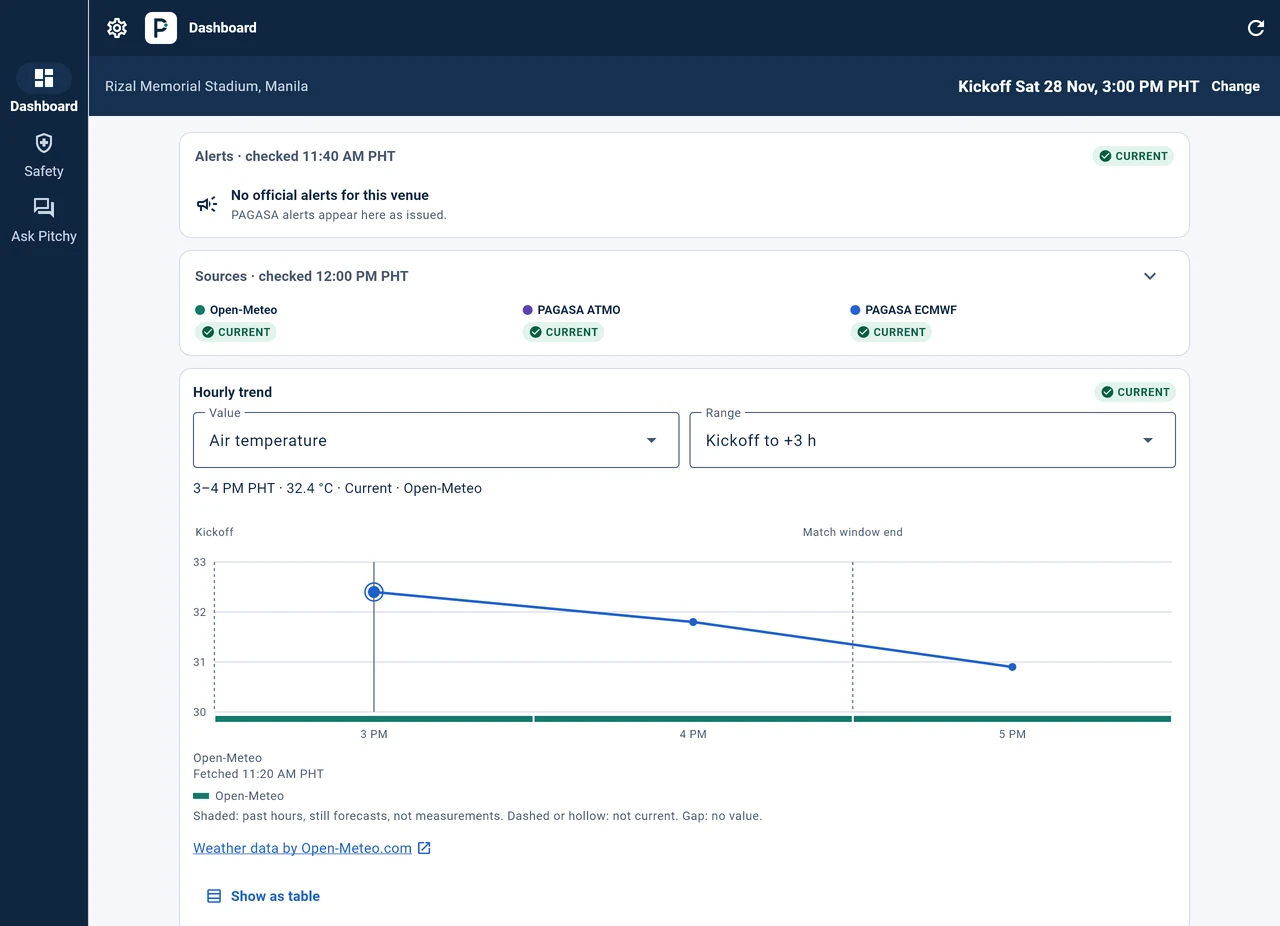
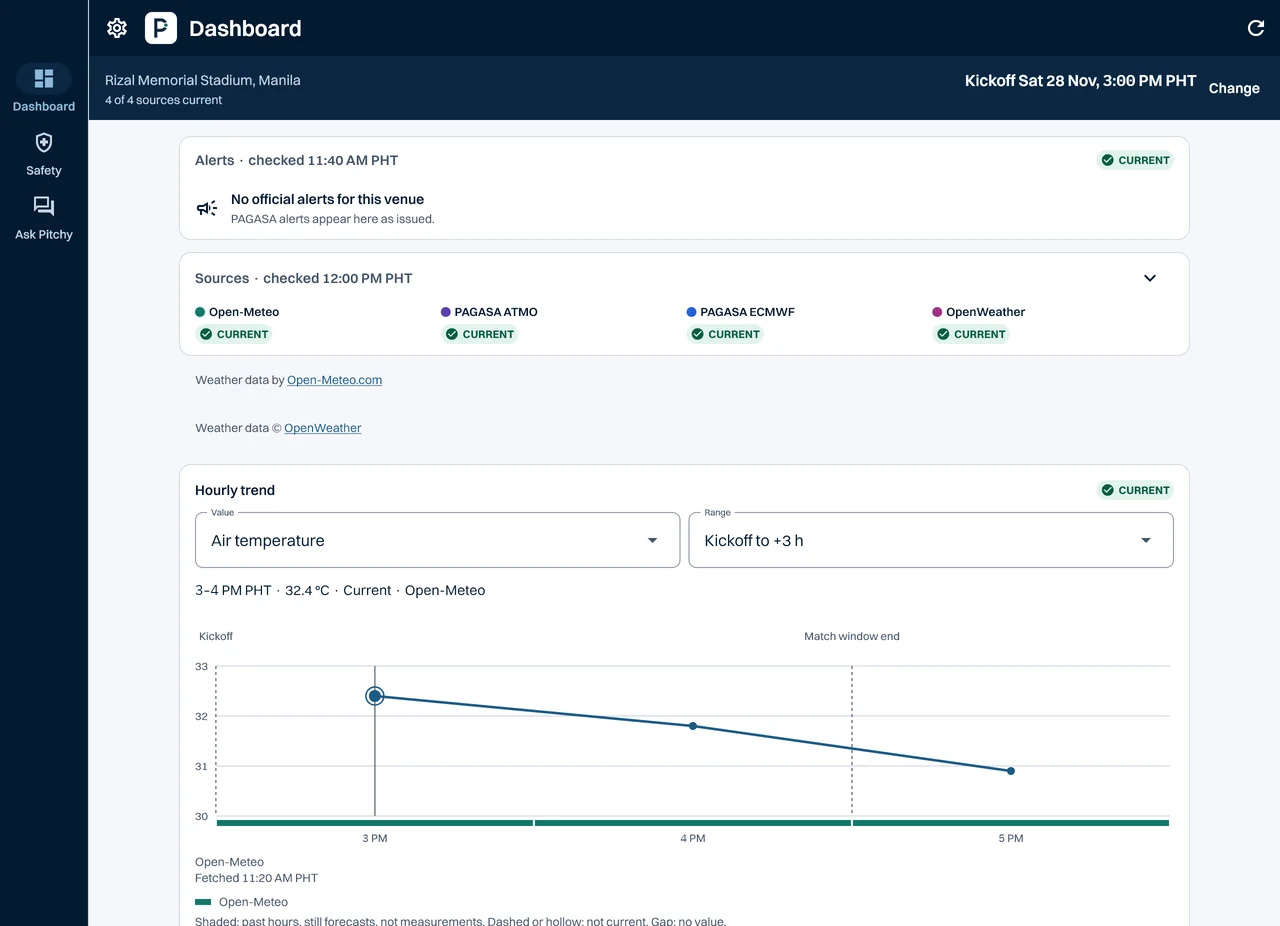
Landing page: redesigned app screenshots, OpenWeather as a source
New captures from the P-28 redesign (sample data) for the story, Windows
and trust sections. OpenWeather added to the hero, meta description,
source list (plum mark) and the FAQ credit with its link.

diff --git a/landing_page/index.html b/landing_page/index.html
@@ -6,7 +6,7 @@
     <title>Pitchy: Your Football Safety &amp; Weather Guide</title>
     <meta
       name="description"
-      content="Pitchy puts match-day weather from PAGASA and Open-Meteo, the guidance the approved safety rules give, and plain-language answers into one app for Android and Windows. Free download."
+      content="Pitchy puts match-day weather from PAGASA, Open-Meteo and OpenWeather, the guidance the approved safety rules give, and plain-language answers into one app for Android and Windows. Free download."
     />
     <meta name="theme-color" content="#031A31" />
     <meta property="og:title" content="Pitchy: Your Football Safety &amp; Weather Guide" />
@@ -55,7 +55,7 @@
               <span class="hero-tag">Your football safety &amp; weather guide</span>
             </h1>
             <p class="hero-lede">
-              Weather for your venue and kickoff from PAGASA and Open-Meteo, what the approved safety rules say, and
+              Weather for your venue and kickoff from PAGASA, Open-Meteo and OpenWeather, what the approved safety rules say, and
               Ask Pitchy to explain it in plain words. Every value shows its source and how old it is.
             </p>
             <div class="hero-actions">
@@ -119,6 +119,7 @@
                 <ul class="source-list" aria-label="Weather sources">
                   <li><span class="src-dot src-open-meteo" aria-hidden="true"></span>Open-Meteo</li>
                   <li><span class="src-dot src-pagasa" aria-hidden="true"></span>PAGASA</li>
+                  <li><span class="src-dot src-openweather" aria-hidden="true"></span>OpenWeather</li>
                   <li><span class="src-dot src-dost" aria-hidden="true"></span>DOST-ASTI <span class="muted">(planned)</span></li>
                 </ul>
                 <figure class="story-shot">
@@ -278,7 +279,7 @@
             </details>
             <details data-line>
               <summary>Where does the weather come from?</summary>
-              <p>From PAGASA and Open-Meteo, with DOST-ASTI planned. In the app, every value shows its source. <a href="https://open-meteo.com/" rel="noopener" target="_blank">Weather data by Open-Meteo.com</a>.</p>
+              <p>From PAGASA, Open-Meteo and OpenWeather, with DOST-ASTI planned. In the app, every value shows its source. <a href="https://open-meteo.com/" rel="noopener" target="_blank">Weather data by Open-Meteo.com</a>. <a href="https://openweathermap.org/" rel="noopener" target="_blank">Weather data © OpenWeather</a>.</p>
             </details>
             <details data-line>
               <summary>Does Pitchy decide whether a match goes ahead?</summary>

diff --git a/landing_page/src/styles/main.css b/landing_page/src/styles/main.css
@@ -621,6 +621,9 @@ figcaption,
 .src-pagasa {
   background: var(--src-pagasa);
 }
+.src-openweather {
+  background: var(--src-openweather);
+}
 .src-dost {
   background: transparent;
   border: 2px solid var(--src-dost);

diff --git a/landing_page/src/styles/tokens.css b/landing_page/src/styles/tokens.css
@@ -63,6 +63,7 @@
   /* weather source lines (from the app) */
   --src-open-meteo: #52c7b4;
   --src-pagasa: #b39cf5;
+  --src-openweather: #ee8fd9;
   --src-dost: #9aa8b8;
 
   /* platform marks */

diff --git a/landing_page/DESIGN.md b/landing_page/DESIGN.md
@@ -24,6 +24,7 @@ colors:
   tint: "#e6ecf4"
   src-open-meteo: "#52c7b4"
   src-pagasa: "#b39cf5"
+  src-openweather: "#ee8fd9"
   src-dost: "#9aa8b8"
   android: "#157a4a"
   android-tint: "#e3f2ea"
@@ -159,7 +160,7 @@ A night-stadium palette with one lit accent and a paper counter-world.
 - **On Dark** (`#f2f5f9`) and **On Dark Muted** (`#b4c2d3`): text on night.
 - **Mown Pitch** (`#0e3b2e`) / **Pitch Stripe** (`#114634`): tokens kept for the canvas grass family only; the Windows band now uses Night 2 / Match Navy stripes (90deg, `repeating-linear-gradient`) with 18% glacier hairlines.
 - **Programme Paper** (`#f5f7fa`), **White Panel** (`#ffffff`), **Hairline** (`#d3dae3`), **Tint** (`#e6ecf4`), **Ink Muted** (`#45556b`): the install, sheet and FAQ world.
-- **Source marks:** Open-Meteo teal (`#52c7b4`), PAGASA violet (`#b39cf5`), DOST-ASTI grey (`#9aa8b8`, drawn as a hollow ring), all mirroring the app's source lines. They are app colours, not theme colours.
+- **Source marks:** Open-Meteo teal (`#52c7b4`), PAGASA violet (`#b39cf5`), OpenWeather plum (`#ee8fd9`), DOST-ASTI grey (`#9aa8b8`, drawn as a hollow ring), all mirroring the app's source lines. They are app colours, not theme colours.
 - **Platform marks:** Android green (`#157a4a` on `#e3f2ea`) and Windows blue (`#0f5fb8` on `#e4eefa`), used only on the platform picker icons.
 
 ### Named Rules
